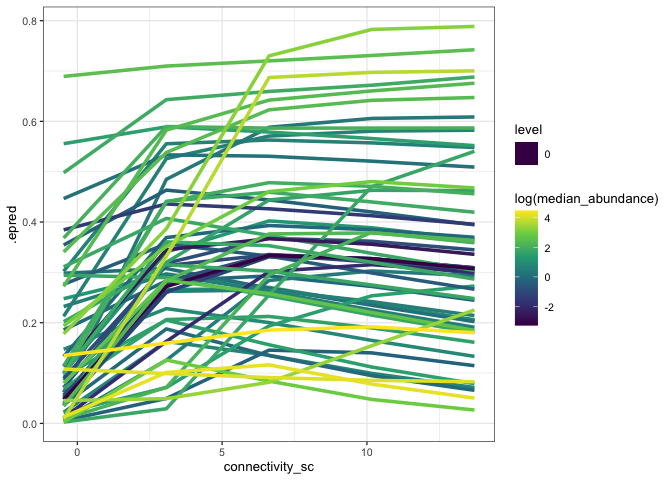
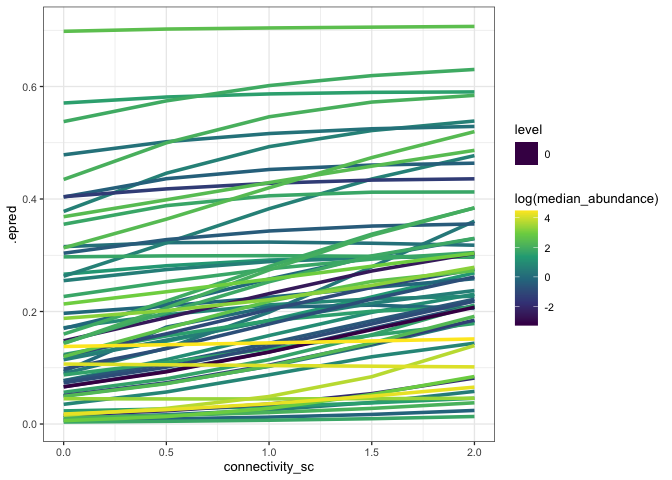
add figure

diff --git a/code/exploration/19_species-abundance.md b/code/exploration/19_species-abundance.md
@@ -1,7 +1,7 @@
 Species abundance
 ================
 Eleanor Jackson
-19 June, 2025
+20 June, 2025
 
 ``` r
 library("tidyverse"); theme_set(theme_bw(base_size = 10))
@@ -387,7 +387,7 @@ preds_sp <-
   test_data %>%
   modelr::data_grid(
     connectivity_sc =
-      modelr::seq_range(connectivity_sc, n = 5),
+      c(0, 0.5, 1, 1.5, 2),
     sp4 = unique(test_data$sp4),
                     .model = model
   ) %>%
@@ -409,3 +409,67 @@ preds_sp %>%
     ## Joining with `by = join_by(sp4)`
 
 ![](figures/19_species-abundance/unnamed-chunk-19-1.png)<!-- -->
+
+``` r
+preds_sp_h <- 
+  test_data %>%
+  modelr::data_grid(
+    connectivity_sc =
+      c(0, 0.5, 1, 1.5, 2),
+    sp4 = unique(test_data$sp4),
+                    .model = model_h
+  ) %>%
+  tidybayes::add_epred_draws(model_h, 
+                             re_formula = 
+                               ~ (1 + 
+                                    connectivity_sc | sp4)) 
+```
+
+``` r
+preds_sp_h %>% 
+  left_join(abun)%>%
+  ggplot(aes(y = .epred, x = connectivity_sc,
+             colour = log(median_abundance), group = sp4)) +
+  stat_lineribbon(.width = 0) +
+  scale_colour_viridis_c()
+```
+
+    ## Joining with `by = join_by(sp4)`
+
+![](figures/19_species-abundance/unnamed-chunk-21-1.png)<!-- -->
+
+``` r
+preds_sp_sum <- 
+  preds_sp %>% 
+  point_interval()
+
+
+preds_sp_h_sum <- 
+  preds_sp_h %>% 
+  point_interval()
+
+preds_sp_sum %>% 
+  full_join(preds_sp_h_sum, by = c("connectivity_sc", "sp4"),
+            suffix = c("_consp", "_hetero")) %>% 
+  mutate(difference = (.epred_consp -.epred_hetero),
+         up = (.upper_consp - .upper_hetero),
+         lo = (.lower_consp - .lower_hetero)) %>% 
+  left_join(abun)%>%
+  ggplot(aes(y = difference, x = connectivity_sc,
+             colour = log(median_abundance), 
+             fill = log(median_abundance), 
+             group = sp4,
+             ymin = lo,
+             ymax = up)) +
+  geom_hline(yintercept = 0, 
+             colour = "red", 
+             linetype = 2) +
+  geom_lineribbon() +
+  scale_colour_viridis_c() +
+  scale_fill_viridis_c(alpha = 0.5) +
+  facet_wrap(~sp4) 
+```
+
+    ## Joining with `by = join_by(sp4)`
+
+![](figures/19_species-abundance/unnamed-chunk-22-1.png)<!-- -->
